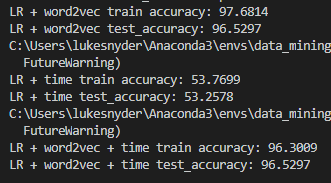
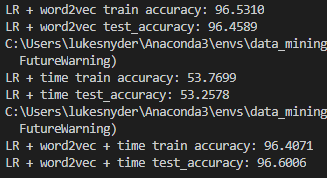
Updates.

Changed region(s): [[0.0, 0.0, 1.0, 0.9551]]

diff --git a/ACL_ICWSM_2018_datasets/src/models/lr.py b/ACL_ICWSM_2018_datasets/src/models/lr.py
@@ -6,10 +6,10 @@ from sklearn.linear_model import LogisticRegression
 
 if __name__=='__main__':	
 	# Read input data.
-	inputfile = sys.argv[1]
+	input_file = sys.argv[1]
 	word2vec_path = sys.argv[2]
 
-	df = pd.read_csv(inputfile)
+	df = pd.read_csv(input_file)
 	w2v = word2vec(word2vec_path)
 
 	df['tokens'] = w2v.pad(df['text'].tolist())
@@ -22,9 +22,11 @@ if __name__=='__main__':
 	# Obtain average vectors for train and test data.
 	average_weights_train = w2v.compute_average_weights(train_data['tokens'])
 	average_weights_test = 	w2v.compute_average_weights(test_data['tokens'])
+	average_weights_train = w2v.test(train_data['tokens'])
+	average_weights_test = w2v.test(test_data['tokens'])
 
 	# Evaluate LR without temporal dimension.
-	lr_model = LogisticRegression(penalty='l2', C=1000, max_iter=1000).fit(average_weights_train, train_data[class_column])
+	lr_model = LogisticRegression(penalty='l2', C=1, max_iter=1000).fit(average_weights_train, train_data[class_column])
 
 	train_accuracy = lr_model.score(average_weights_train, train_data[class_column])
 	test_accuracy = lr_model.score(average_weights_test, test_data[class_column])
@@ -32,27 +34,27 @@ if __name__=='__main__':
 	print('LR + word2vec train accuracy: %.4f' % (train_accuracy * 100))
 	print('LR + word2vec test_accuracy: %.4f' % (test_accuracy * 100))
 
-	# Evaluate LR with only temporal dimension.
-	lr_model = LogisticRegression(penalty='l2', C=0.1, max_iter=1000).fit([[label] for label in train_data['day_label']], train_data[class_column])
+	# # Evaluate LR with only temporal dimension.
+	# lr_model = LogisticRegression(penalty='l2', C=0.1, max_iter=1000).fit([[label] for label in train_data['day_label']], train_data[class_column])
 
-	train_accuracy = lr_model.score([[label] for label in train_data['day_label']], train_data[class_column])
-	test_accuracy = lr_model.score([[label] for label in test_data['day_label']], test_data[class_column])
+	# train_accuracy = lr_model.score([[label] for label in train_data['day_label']], train_data[class_column])
+	# test_accuracy = lr_model.score([[label] for label in test_data['day_label']], test_data[class_column])
 
-	print('LR + time train accuracy: %.4f' % (train_accuracy * 100))
-	print('LR + time test_accuracy: %.4f' % (test_accuracy * 100))
+	# print('LR + time train accuracy: %.4f' % (train_accuracy * 100))
+	# print('LR + time test_accuracy: %.4f' % (test_accuracy * 100))
 
-	# Add temporal dimension to features.
-	train_time_labels = np.reshape(np.asarray(train_data['day_label']), (len(train_data['day_label']), 1))
-	test_time_labels = np.reshape(np.asarray(test_data['day_label']), (len(test_data['day_label']), 1))
+	# # Add temporal dimension to features.
+	# train_time_labels = np.reshape(np.asarray(train_data['day_label']), (len(train_data['day_label']), 1))
+	# test_time_labels = np.reshape(np.asarray(test_data['day_label']), (len(test_data['day_label']), 1))
 
-	average_weights_train = np.concatenate((average_weights_train, train_time_labels), axis=1)
-	average_weights_test = np.concatenate((average_weights_test, test_time_labels), axis=1)
+	# average_weights_train = np.concatenate((average_weights_train, train_time_labels), axis=1)
+	# average_weights_test = np.concatenate((average_weights_test, test_time_labels), axis=1)
 
-	# Evaluate LR with w2v + temporal dimension.
-	lr_model = LogisticRegression(penalty='l2', C=1, max_iter=1000).fit(average_weights_train, train_data[class_column])
+	# # Evaluate LR with w2v + temporal dimension.
+	# lr_model = LogisticRegression(penalty='l2', C=1, max_iter=1000).fit(average_weights_train, train_data[class_column])
 
-	train_accuracy = lr_model.score(average_weights_train, train_data[class_column])
-	test_accuracy = lr_model.score(average_weights_test, test_data[class_column])
+	# train_accuracy = lr_model.score(average_weights_train, train_data[class_column])
+	# test_accuracy = lr_model.score(average_weights_test, test_data[class_column])
 
-	print('LR + word2vec + time train accuracy: %.4f' % (train_accuracy * 100))
-	print('LR + word2vec + time test_accuracy: %.4f' % (test_accuracy * 100))
+	# print('LR + word2vec + time train accuracy: %.4f' % (train_accuracy * 100))
+	# print('LR + word2vec + time test_accuracy: %.4f' % (test_accuracy * 100))

diff --git a/ACL_ICWSM_2018_datasets/src/models/nbc.py b/ACL_ICWSM_2018_datasets/src/models/nbc.py
@@ -1,0 +1,74 @@
+import pandas as pd
+import numpy as np
+import sys
+from word2vec import *
+from keras.models import Sequential
+from keras.layers import Dense, Dropout, LSTM, Bidirectional
+
+if __name__=='__main__':	
+	# Read input data.
+	input_file = sys.argv[1]
+	word2vec_path = sys.argv[2]
+
+	df = pd.read_csv(input_file)
+	w2v = word2vec(word2vec_path)
+
+	df['tokens'] = w2v.pad(df['text'].tolist())
+	w2v.create_embeddings(df['tokens'])
+
+	test_data = df.sample(frac=0.2, random_state=25)
+	train_data = df.drop(test_data.index)
+	class_column = 'relevance_label'
+
+	# Obtain average vectors for train and test data.
+	average_weights_train = np.asarray(w2v.compute_average_weights(train_data['tokens']))
+	average_weights_test = np.asarray(w2v.compute_average_weights(test_data['tokens']))
+
+	# Setup hyperparameters.
+	batch_size = 32
+	dropout = 0.5
+	num_epochs = 4
+
+	# Evaluate Bi-LSTM without temporal dimension.
+	bi_lstm = Sequential()
+	bi_lstm.add(Dense(w2v.EMBEDDING_DIM, input_shape=(w2v.EMBEDDING_DIM, )))
+	bi_lstm.add(Bidirectional(LSTM(w2v.EMBEDDING_DIM)))
+	bi_lstm.add(Dropout(0.5))
+	bi_lstm.add(Dense(1, activation='sigmoid'))
+
+	bi_lstm.compile('adam', 'binary_crossentropy', metrics=['accuracy'])
+	bi_lstm.fit(average_weights_train, np.asarray(train_data[class_column]), batch_size=batch_size, epochs=num_epochs)
+	print('BiLSTM + word2vec train accuracy: %.4f' % (model.evaluate(average_weights_train, train_data[class_column], batch_size=batch_size)) * 100)
+	print('BiLSTM + word2vec test accuracy: %.4f' % (model.evaluate(average_weights_test, test_data[class_column], batch_size=batch_size)) * 100)
+
+	train_accuracy = bi_lstm.score(average_weights_train, np.asarray(train_data[class_column]))
+	test_accuracy = bi_lstm.score(average_weights_test, np.asarray(test_data[class_column]))
+
+	print('SVM + word2vec train accuracy: %.4f' % (train_accuracy * 100))
+	print('SVM + word2vec test_accuracy: %.4f' % (test_accuracy * 100))
+
+	# # Evaluate SVM with only temporal dimension.
+	# svm_model = SVC(kernel='rbf', C=0.1).fit([[label] for label in train_data['day_label']], train_data[class_column])
+
+	# train_accuracy = svm_model.score([[label] for label in train_data['day_label']], train_data[class_column])
+	# test_accuracy = svm_model.score([[label] for label in test_data['day_label']], test_data[class_column])
+
+	# print('SVM + time train accuracy: %.4f' % (train_accuracy * 100))
+	# print('SVM + time test_accuracy: %.4f' % (test_accuracy * 100))
+
+	# # Add temporal dimension to features.
+	# average_weights_train_temporal = normalize(np.reshape(np.asarray(train_data['day_label']), (len(train_data['day_label']), 1)))
+	# average_weights_test_temporal = normalize(np.reshape(np.asarray(test_data['day_label']), (len(test_data['day_label']), 1)))
+
+	# average_weights_train = np.concatenate((average_weights_train, average_weights_train_temporal), axis=1)
+	# average_weights_test = np.concatenate((average_weights_test, average_weights_test_temporal), axis=1)
+
+	# # Evaluate SVM with w2v + temporal dimension.
+	# svm_model = SVC(kernel='linear', C=100).fit(average_weights_train, train_data[class_column])
+
+	# train_accuracy = svm_model.score(average_weights_train, train_data[class_column])
+	# test_accuracy = svm_model.score(average_weights_test, test_data[class_column])
+
+	# print('SVM + word2vec + time train accuracy: %.4f' % (train_accuracy * 100))
+	# print('SVM + word2vec + time test_accuracy: %.4f' % (test_accuracy * 100))
+

diff --git a/ACL_ICWSM_2018_datasets/src/models/cv.py b/ACL_ICWSM_2018_datasets/src/models/cv.py
@@ -28,17 +28,17 @@ def kfold_cv(data, word2vec_path, model_choice):
 
 		# Find best parameters for w2v.
 		gs.fit(average_weights, data[class_label])
-		print('Best parameters for for LR word2vec: %r' % gs.best_params_)
+		print('Best parameters for LR word2vec: %r' % gs.best_params_)
 		print('Corresponding accuracy: %.4f' % (gs.best_score_ * 100), end='\n\n')
 
 		# Find best parameters for time.
 		gs.fit(time_feature, data[class_label])
-		print('Best parameters for for LR time: %r' % gs.best_params_)
+		print('Best parameters for LR time: %r' % gs.best_params_)
 		print('Corresponding accuracy: %.4f' % (gs.best_score_ * 100), end='\n\n')
 
 		# Find best parameters for w2v + time.
 		gs.fit(average_weights_time, data[class_label])
-		print('Best parameters for for LR word2vec + time: %r' % gs.best_params_)
+		print('Best parameters for LR word2vec + time: %r' % gs.best_params_)
 		print('Corresponding accuracy: %.4f' % (gs.best_score_ * 100))
 
 	elif model_choice == 'SVM':
@@ -50,17 +50,17 @@ def kfold_cv(data, word2vec_path, model_choice):
 
 		# Find best parameters for w2v.
 		gs.fit(average_weights, data[class_label])
-		print('Best parameters for for SVM word2vec: %r' % gs.best_params_)
+		print('Best parameters for SVM word2vec: %r' % gs.best_params_)
 		print('Corresponding accuracy: %.4f' % (gs.best_score_ * 100), end='\n\n')
 
 		# Find best parameters for time.
 		gs.fit(time_feature, data[class_label])
-		print('Best parameters for for SVM time: %r' % gs.best_params_)
+		print('Best parameters for SVM time: %r' % gs.best_params_)
 		print('Corresponding accuracy: %.4f' % (gs.best_score_ * 100), end='\n\n')
 
 		# Find best parameters for w2v + time.
 		gs.fit(average_weights_time, data[class_label])
-		print('Best parameters for for SVM word2vec + time: %r' % gs.best_params_)
+		print('Best parameters for SVM word2vec + time: %r' % gs.best_params_)
 		print('Corresponding accuracy: %.4f' % (gs.best_score_ * 100))
 
 if __name__=='__main__':

diff --git a/ACL_ICWSM_2018_datasets/src/models/svm.py b/ACL_ICWSM_2018_datasets/src/models/svm.py
@@ -7,10 +7,10 @@ from sklearn.preprocessing import normalize
 
 if __name__=='__main__':	
 	# Read input data.
-	inputfile = sys.argv[1]
+	input_file = sys.argv[1]
 	word2vec_path = sys.argv[2]
 
-	df = pd.read_csv(inputfile)
+	df = pd.read_csv(input_file)
 	w2v = word2vec(word2vec_path)
 
 	df['tokens'] = w2v.pad(df['text'].tolist())
@@ -34,7 +34,7 @@ if __name__=='__main__':
 	print('SVM + word2vec test_accuracy: %.4f' % (test_accuracy * 100))
 
 	# Evaluate SVM with only temporal dimension.
-	svm_model.fit([[label] for label in train_data['day_label']], train_data[class_column])
+	svm_model = SVC(kernel='rbf', C=0.1).fit([[label] for label in train_data['day_label']], train_data[class_column])
 
 	train_accuracy = svm_model.score([[label] for label in train_data['day_label']], train_data[class_column])
 	test_accuracy = svm_model.score([[label] for label in test_data['day_label']], test_data[class_column])
@@ -50,7 +50,7 @@ if __name__=='__main__':
 	average_weights_test = np.concatenate((average_weights_test, average_weights_test_temporal), axis=1)
 
 	# Evaluate SVM with w2v + temporal dimension.
-	svm_model.fit(average_weights_train, train_data[class_column])
+	svm_model = SVC(kernel='linear', C=100).fit(average_weights_train, train_data[class_column])
 
 	train_accuracy = svm_model.score(average_weights_train, train_data[class_column])
 	test_accuracy = svm_model.score(average_weights_test, test_data[class_column])

diff --git a/ACL_ICWSM_2018_datasets/src/models/word2vec.py b/ACL_ICWSM_2018_datasets/src/models/word2vec.py
@@ -39,3 +39,11 @@ class word2vec:
 		]
 
 		return averages
+
+	def test(self, data):
+		averages = np.zeros(shape=(len(data), self.MAX_SEQUENCE_LENGTH * self.EMBEDDING_DIM))
+		for i, tokens in enumerate(data):
+			for j, token in enumerate(tokens):
+				averages[i, j * self.EMBEDDING_DIM: (j + 1) * self.EMBEDDING_DIM] = self.embedding_weights[token]
+
+		return averages
